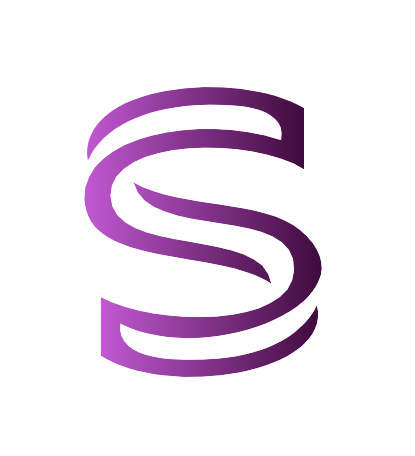
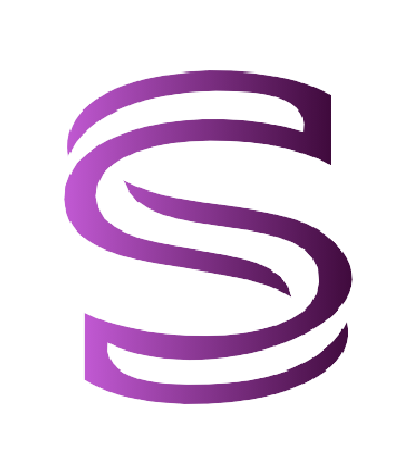
pic

Changed region(s): [[0.1446, 0.1228, 0.8675, 0.8596], [0.5205, 0.5833, 0.5783, 0.614]]

diff --git a/index.php b/index.php
@@ -27,7 +27,7 @@
      <link rel="stylesheet" href="https://fonts.googleapis.com/icon?family=Material+Icons">
 
      <!-- Shortcut Icon -->
-     <link rel="shortcut icon" href="php/images/assets/socialityLogo_transparent.png">
+     <link rel="shortcut icon" href="php/images/assets/sample2.png">
 
      <!-- Custom CSS File -->
      <link rel="stylesheet" href="css/socialityOverrides.css">
@@ -72,14 +72,14 @@
             <?php else: ?>
               <h1>PEEPEEPOOPOO</h1>
               <h4>hehe peepeepoopoo</h4>
-              
+
             <?php endif; ?>
          </div>
 
        </main>
 
        <?php include_once("php/inc/footer.php"); ?>
-       
+
       </div>
 
    </body>
